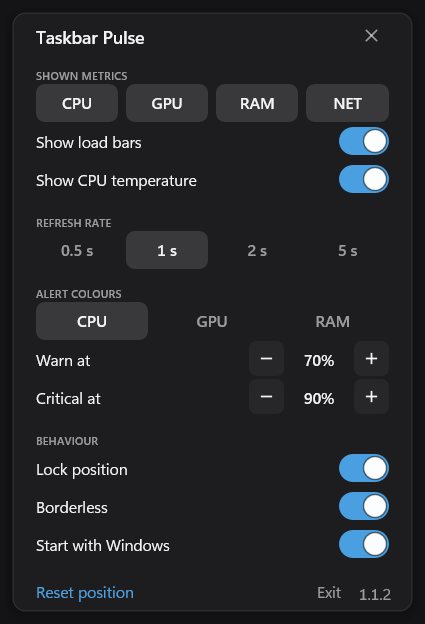
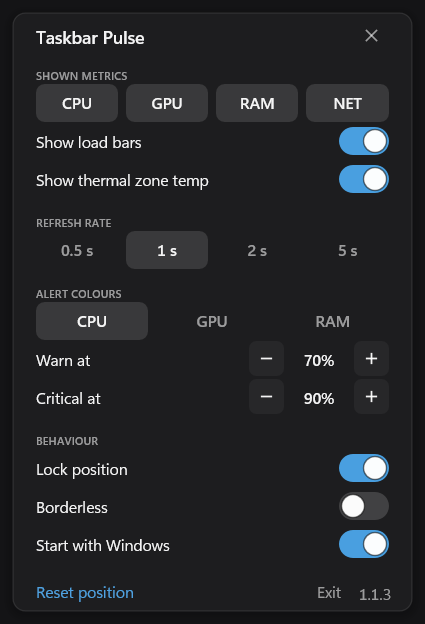
Stabilize the GPU readout and document the ACPI thermal zone; bump to 1.1.3

Changed region(s): [[0.7953, 0.7612, 0.9176, 0.8526], [0.1835, 0.274, 0.4894, 0.3045], [0.8871, 0.9439, 0.9176, 0.9744]]

diff --git a/src/main.cpp b/src/main.cpp
@@ -64,7 +64,7 @@ using Microsoft::WRL::ComPtr;
 // Small helpers
 
 static constexpr wchar_t kAppName[] = L"Taskbar Pulse";
-static constexpr wchar_t kVersion[] = L"1.1.2";
+static constexpr wchar_t kVersion[] = L"1.1.3";
 static constexpr wchar_t kWndClass[] = L"TaskbarPulse.Widget";
 
 static const UINT WM_APP_SAMPLE = WM_APP + 10;
@@ -664,6 +664,17 @@ class Sampler {
     if (status != ERROR_SUCCESS) return -1.0f;
 
     auto* items = (PDH_FMT_COUNTERVALUE_ITEM_W*)thermalBuf_.data();
+    if (g_debug && !loggedThermalZones_) {
+      for (DWORD i = 0; i < count; ++i) {
+        if (items[i].FmtValue.CStatus != PDH_CSTATUS_VALID_DATA &&
+            items[i].FmtValue.CStatus != PDH_CSTATUS_NEW_DATA)
+          continue;
+        const double kelvin = thermalTenths_ ? items[i].FmtValue.doubleValue / 10.0
+                                             : items[i].FmtValue.doubleValue;
+        Log(L"thermal zone %ls = %.1f C", items[i].szName, kelvin - 273.15);
+      }
+      loggedThermalZones_ = true;
+    }
     double warmest = -1.0;
     for (DWORD i = 0; i < count; ++i) {
       if (items[i].FmtValue.CStatus != PDH_CSTATUS_VALID_DATA &&
@@ -685,7 +696,7 @@ class Sampler {
     if (!StartGpu()) return -1.0f;
     if (PdhCollectQueryData(query_) != ERROR_SUCCESS) {
       CloseGpu();
-      nextGpuRetry_ = GetTickCount64() + 30000;
+      nextGpuRetry_ = GetTickCount64() + 1000;  // transient; retry next sample
       return -1.0f;
     }
 
@@ -782,6 +793,7 @@ class Sampler {
   bool thermalTenths_ = true;
   std::vector<BYTE> buffer_;
   std::vector<BYTE> thermalBuf_;
+  bool loggedThermalZones_ = false;
   ULONGLONG nextGpuRetry_ = 0;
   ULONGLONG nextTempRetry_ = 0;
   bool cpuPrimed_ = false;
@@ -1203,7 +1215,7 @@ bool Renderer::PaintSettings(HWND hwnd, int x, int y, const Theme& theme, const 
     target_->DrawEllipse(dot, brush_.Get(), std::max(1.0f, 1.1f * s));
   };
   switchRow(L.barsRow, L.barsSwitch, L"Show load bars", view.bars);
-  switchRow(L.tempRow, L.tempSwitch, L"Show CPU temperature", view.temps);
+  switchRow(L.tempRow, L.tempSwitch, L"Show thermal zone temp", view.temps);
   switchRow(L.lockRow, L.lockSwitch, L"Lock position", view.locked);
   switchRow(L.borderRow, L.borderSwitch, L"Borderless", view.borderless);
   switchRow(L.autoRow, L.autoSwitch, L"Start with Windows", view.autostart);
@@ -1377,6 +1389,10 @@ struct App {
   HWND settingsPrevious = nullptr;
 
   float gpuShown = -1.0f;
+  float gpuRaw = -1.0f;
+  int gpuMisses = 0;
+  int gpuPending = -999;
+  int gpuPendingCount = 0;
   std::atomic<bool> samplingActive{true};
   int lastPaintCpu = -999, lastPaintGpu = -999, lastPaintRam = -999;
   int lastPaintAlert[3] = {-1, -1, -1};
@@ -1411,9 +1427,22 @@ struct App {
 
 static App g_app;
 
+static bool IsHardwareGpu(const App& app, ULONGLONG luid);
+
 static float DisplayGpu(const App& app) {
   if (app.sample.gpu < 0.0f) return -1.0f;
-  if (app.settings.gpuLuid == 0) return app.sample.gpu;
+  if (app.settings.gpuLuid == 0) {
+    // Ignore WARP / Basic Render Driver instances. They can spike under load
+    // with no physical GPU behind them, and the settings list already hides them.
+    float best = -1.0f;
+    for (int i = 0; i < app.sample.gpuCount; ++i)
+      if (IsHardwareGpu(app, app.sample.gpus[i].luid))
+        best = std::max(best, app.sample.gpus[i].util);
+    if (best >= 0.0f) return best;
+    // A hardware adapter exists but has no counter instances: it is idle.
+    if (!app.adapters.empty()) return 0.0f;
+    return app.sample.gpu;  // adapter list not loaded yet
+  }
   for (int i = 0; i < app.sample.gpuCount; ++i)
     if (app.sample.gpus[i].luid == app.settings.gpuLuid) return app.sample.gpus[i].util;
   // A pinned adapter that is present but idle has no counter instances. Report
@@ -1421,6 +1450,67 @@ static float DisplayGpu(const App& app) {
   for (const AdapterInfo& adapter : app.adapters)
     if (adapter.luid == app.settings.gpuLuid) return 0.0f;
   return app.sample.gpu;  // the selected adapter is gone (disabled): fall back
+}
+
+static bool IsHardwareGpu(const App& app, ULONGLONG luid) {
+  for (const AdapterInfo& adapter : app.adapters)
+    if (adapter.luid == luid) return !adapter.software;
+  return false;
+}
+
+// A GPU percentage is a duty cycle, so idle readings wander across the rounding
+// boundary and a 0/1% change can repaint the bar every sample. Keep the shown
+// value stable: a one-point change must persist for three samples, a larger
+// change goes through at once, and brief counter misses hold the last value.
+static void UpdateGpuSample(App& app, bool reset) {
+  const float raw = DisplayGpu(app);
+  app.gpuRaw = raw;
+  Log(L"gpu raw=%.2f shown=%.2f", raw, app.gpuShown);
+  if (reset) {
+    app.gpuShown = raw;
+    app.gpuMisses = 0;
+    app.gpuPending = -999;
+    app.gpuPendingCount = 0;
+    return;
+  }
+  if (raw < 0.0f) {
+    if (app.gpuShown >= 0.0f && ++app.gpuMisses < 3) return;
+    app.gpuShown = -1.0f;
+    app.gpuMisses = 0;
+    app.gpuPending = -999;
+    app.gpuPendingCount = 0;
+    return;
+  }
+  app.gpuMisses = 0;
+  if (app.gpuShown < 0.0f) {
+    app.gpuShown = raw;
+    app.gpuPending = (int)std::lround(raw);
+    app.gpuPendingCount = 1;
+    return;
+  }
+  const int shown = (int)std::lround(app.gpuShown);
+  const int candidate = (int)std::lround(raw);
+  if (candidate == shown) {
+    app.gpuPending = candidate;
+    app.gpuPendingCount = 0;
+    return;
+  }
+  if (std::abs(candidate - shown) == 1) {
+    if (app.gpuPending == candidate)
+      ++app.gpuPendingCount;
+    else {
+      app.gpuPending = candidate;
+      app.gpuPendingCount = 1;
+    }
+    if (app.gpuPendingCount >= 3) {
+      app.gpuShown = raw;
+      app.gpuPendingCount = 0;
+    }
+    return;
+  }
+  app.gpuShown = raw;
+  app.gpuPending = candidate;
+  app.gpuPendingCount = 0;
 }
 
 // Layout + painting
@@ -1488,7 +1578,7 @@ static void RebuildLayout(App& app) {
 }
 
 static void UpdateAlerts(App& app) {
-  const float pct[3] = {app.sample.cpu, app.gpuShown, app.sample.ram};
+  const float pct[3] = {app.sample.cpu, app.gpuRaw, app.sample.ram};
   const ULONGLONG now = GetTickCount64();
   for (int i = 0; i < 3; ++i) {
     App::MetricAlert& a = app.alerts[i];
@@ -2299,7 +2389,7 @@ static void CommitSettings(App& app, bool layoutChanged, bool restartSampler) {
     RebuildLayout(app);
     UpdatePosition(app, true);
   }
-  app.gpuShown = DisplayGpu(app);
+  UpdateGpuSample(app, true);
   UpdateAlerts(app);
   BuildSettingsView(app);
   PaintWidget(app);
@@ -2723,7 +2813,7 @@ static void ApplySettings(App& app, bool save) {
   app.laidOut = false;
   RebuildLayout(app);
   StartSampler(app);
-  app.gpuShown = DisplayGpu(app);
+  UpdateGpuSample(app, true);
   UpdatePosition(app, true);
   if (app.settingsOpen) PaintSettingsNow(app);
 }
@@ -3191,7 +3281,7 @@ static LRESULT CALLBACK WndProc(HWND hwnd, UINT msg, WPARAM wParam, LPARAM lPara
       s = app->pending;
       LeaveCriticalSection(&app->sampleLock);
       app->sample = s;
-      app->gpuShown = DisplayGpu(*app);
+      UpdateGpuSample(*app, false);
       UpdateAlerts(*app);
       app->hasSample = true;
 

diff --git a/README.md b/README.md
@@ -16,85 +16,74 @@
 <p align="center">
   <a href="../../releases/latest">Download</a> ·
   <a href="#features">Features</a> ·
+  <a href="#screenshots">Screenshots</a> ·
   <a href="#benchmarks">Benchmarks</a> ·
   <a href="#build">Build</a> ·
   <a href="CHANGELOG.md">Changelog</a>
 </p>
 
-![The Taskbar Pulse widget](docs/reddit-promo.png)
+<p align="center">
+  <a href="docs/taskbarpulse_ui.png"><img src="docs/taskbarpulse_ui.png" alt="Taskbar Pulse widget, right-click menu and settings" width="100%"></a>
+</p>
 
 ## What is this?
 
-A taskbar widget for Windows 11 that shows CPU, GPU, memory, network throughput and CPU temperature in one small strip. It is a native **C++20** app built on the Win32 API, Direct2D and DirectWrite — no Electron, no .NET, no runtime.
+A native Windows 11 taskbar widget for CPU, GPU, memory, network and the ACPI thermal zone. It is one C++20 exe built on Win32 and Direct2D, with no installer, runtime, admin rights or telemetry.
 
-It was **vibecoded**: written with an AI assistant from a written spec, then reviewed, benchmarked and tested by hand. The numbers below are measurements from the running build.
+Built with AI assistance, then reviewed, tested and benchmarked by hand.
 
 ## Features
 
-- **CPU, GPU, RAM** — live, with fixed columns so the numbers never dance.
-- **Download and upload** — bytes per second, measured from the interface Windows actually routes through.
-- **CPU temperature** — straight from ACPI, no driver.
-- **Alerts that mean something** — each metric has its own warn and critical level; only the one that crosses changes colour.
-- **Taskbar-native** — drag it anywhere, lock it, go borderless. Follows light/dark, DPI, Explorer restarts and virtual desktops.
-- **Readable on every accent** — check marks, switches and the reset link are contrast-checked against the surfaces they sit on, so yellow, white or black accents stay legible in both themes.
-- **Keyboard settings** — Tab, Space/Enter, arrows, Esc.
-- **Nothing behind it** — no telemetry, no network calls, no service, no updates.
+- CPU, GPU, RAM and the ACPI thermal zone, with fixed columns.
+- Network up and down from the interface Windows actually routes through.
+- Per-metric warning and critical colours.
+- Multi-GPU support: automatic or pinned to one adapter.
+- Taskbar-native: drag, lock, borderless; follows light/dark, DPI, Explorer restarts and virtual desktops.
+- Readable on any accent, with contrast-checked check marks and switches.
+- Keyboard settings with Tab, arrows, Space and Esc.
+
+## Screenshots
+
+| Menu | Settings |
+| --- | --- |
+| <img src="docs/menu.png" width="232" alt="Right-click menu"> | <img src="docs/settings.png" width="425" alt="Settings"> |
 
 ## Benchmarks
 
-Measured on a laptop with Windows 11 26H2 at 1920×1200 and 125% scaling, one minute after launch. Memory is the private working set; CPU time was sampled over 20–30 seconds.
+Measured on a laptop with Windows 11 26H2 at 1920×1200 and 125% scaling, one minute after launch.
 
-| | Taskbar Pulse | TrafficMonitor 1.86 Lite |
+| | Taskbar Pulse | TrafficMonitor Lite 1.86 |
 | --- | --- | --- |
 | Download | **300 KB, one exe** | 1.92 MB exe |
 | Private memory | **about 9 MB** | 12.0 MB |
 | CPU at 1 s | **about 0.4% of one core** | 0.63% |
-| CPU temperature | yes, no admin | plugin, needs admin |
-| Per-metric alerts | yes | no |
-| Multi-GPU pinning | yes | no |
-
-## Why Taskbar Pulse
-
-- **It lives in the taskbar.** Not a floating window, not a Store app, not another Task Manager. It uses the strip in front of the notification area and stays out of the way.
-- **It is one file.** 300 KB, no installer, no runtime, no admin rights. Copy it, run it, delete it.
-- **It is measured, not claimed.** ~9 MB of RAM and ~0.4% of one core, with the numbers above.
-- **Its network meter does not inflate.** One routed interface, 64-bit counters, no summed filter drivers or virtual adapters.
-- **Nothing to trust.** No telemetry, no network connections, no background service.
+| Temperature | **ACPI thermal zone** | none |
 
 ## Install
 
 Download `TaskbarPulse.exe` from the [latest release](../../releases/latest) and run it. There is no installer.
 
-On first launch it adds itself to the current user's Run key; turn **Start with Windows** off in Settings to remove it. Settings live in `%APPDATA%\TaskbarPulse\settings.ini`.
+It adds itself to the current user's Run key. Turn **Start with Windows** off in Settings to remove it. Settings live in `%APPDATA%\TaskbarPulse\settings.ini`.
 
-Windows may warn that the publisher could not be verified, because the exe is unsigned. The release notes list its SHA-256; compare it with `Get-FileHash .\TaskbarPulse.exe -Algorithm SHA256`. If Windows shows the "Open File" prompt, choose **More info → Run anyway**, or clear the download flag first with `Unblock-File .\TaskbarPulse.exe`.
+Windows may warn that the publisher is unknown because the exe is unsigned. The release notes list the SHA-256. Choose **More info > Run anyway**, or run `Unblock-File .\TaskbarPulse.exe` first.
 
 ## Usage
 
-Right-click the widget for the menu; drag it along the taskbar, lock it in place, or make it borderless.
+Right-click the widget for the menu. Drag it along the taskbar, lock it, or make it borderless.
 
-<img src="docs/menu.png" width="232" alt="Menu">
-
-The settings window applies changes live:
-
-<img src="docs/settings.png" width="425" alt="Settings">
-
-Each percentage metric has its own warn and critical level, adjustable in 5% steps. A metric must hold above its level for 1.5 seconds before it turns, and clears 2 points below it, so a spike or a value sitting on the line does not flicker. Only that metric's number and bar change colour.
-
-CPU temperature is a thermal-zone reading and is off by default. The network column follows the default-route interface, so it shows the adapter you are actually using; Wi-Fi and Ethernet are never added together.
-
-Tab moves between controls, Space or Enter activates one, Left and Right adjust a value, and Esc closes. With the tray icon focused (Win+B, arrow keys), Enter opens Settings.
+Settings apply live. Tab moves between controls, arrows change a value, Space or Enter activates one, and Esc closes.
 
 ## Compatibility
 
-Windows 11 22H2 through 26H2 on x64. Windows 10 1809 and later should work, since every API it uses exists there, but it has not been tested. No ARM64 build.
+Windows 11 22H2 to 26H2 on x64. Windows 10 1809 and later should work but is untested. No ARM64 build.
 
-GPU usage comes from the WDDM counters, so Intel, Intel Arc, AMD and NVIDIA adapters all work. Where the driver does not expose those counters — some VMs and RDP sessions — the GPU column shows `—`.
+GPU usage comes from the WDDM counters. Some VMs and RDP sessions do not expose them and show a dash.
 
 ## Known limitations
 
 - Only the primary taskbar is supported.
-- While Start or Search is open, Windows lifts the taskbar above every top-level window, so the widget is covered until the menu closes. No portable app can draw above it.
+- While Start or Search is open, Windows puts the taskbar above every window, so the widget is covered.
+- The temperature is the warmest ACPI thermal zone, not a core sensor. Accuracy and update rate vary by OEM. Verified on an Acer Predator PHN16-72; an offset against HWiNFO or Core Temp was not measured.
 - The network column follows the default-route interface only; a second NIC or a host-only VM network is not added in.
 
 ## Build
@@ -105,10 +94,8 @@ Visual Studio with the C++ toolset and the Windows 11 SDK.
 .\build.ps1
 ```
 
-The output is `TaskbarPulse.exe` next to the script, linked against the static CRT so it has no runtime dependency. The script also runs the contrast regression test, so a change that drops accent text below 4.5:1 or an accent fill below 3:1 fails the build.
-
-Every push also builds the exe in GitHub Actions. Fork the repo, edit it, and download `TaskbarPulse-windows-x64` from the run's **Artifacts**; push a tag like `v1.0.0` and the workflow publishes it as a release.
+The output is `TaskbarPulse.exe`, statically linked. The script also runs the contrast regression test. Every push builds in GitHub Actions, and a `v*` tag publishes a release with the exe and SHA-256.
 
 ## License
 
-MIT — use it, fork it, ship it, keep the copyright notice. See [LICENSE](LICENSE).
+MIT. Use it, fork it, ship it, keep the copyright notice. See [LICENSE](LICENSE).

diff --git a/CHANGELOG.md b/CHANGELOG.md
@@ -1,5 +1,13 @@
 # Changelog
 
+## 1.1.3
+
+- Settings now labels the temperature as the thermal zone. The README explains that it is the warmest ACPI zone, not a core sensor, and records the verified laptop (Acer Predator PHN16-72, one zone `\_tz.tz00`); an offset against HWiNFO or Core Temp was not measured.
+- The GPU readout ignores WARP/Basic Render Driver instances, holds the last good value through brief counter misses, and requires a one-point change to persist for three samples before updating. This removes the 0/1% flicker reported on a 120 Hz setup.
+- A failed GPU counter collect now retries after 1 s instead of 30 s.
+- Debug logs list the ACPI thermal zones so OEM reports are easier.
+- Settings footer and tray tooltip report 1.1.3; the exe metadata is 1.1.3.0.
+
 ## 1.1.2
 
 - Accent-colored text and check marks now meet 4.5:1 against the menu, including the hovered row. The accent fills used by switches, load bars and the keyboard focus ring meet 3:1. Before, the fixed tint on dark failed for black and near-black accents, and the raw accent on light failed for bright ones.
